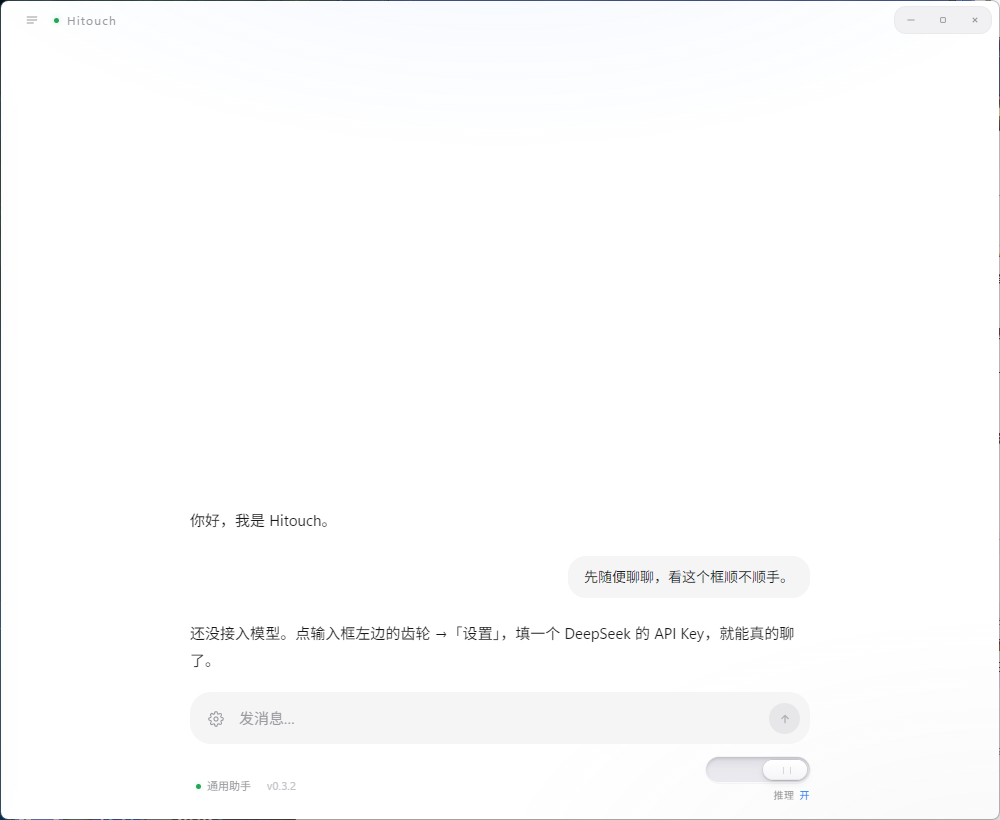
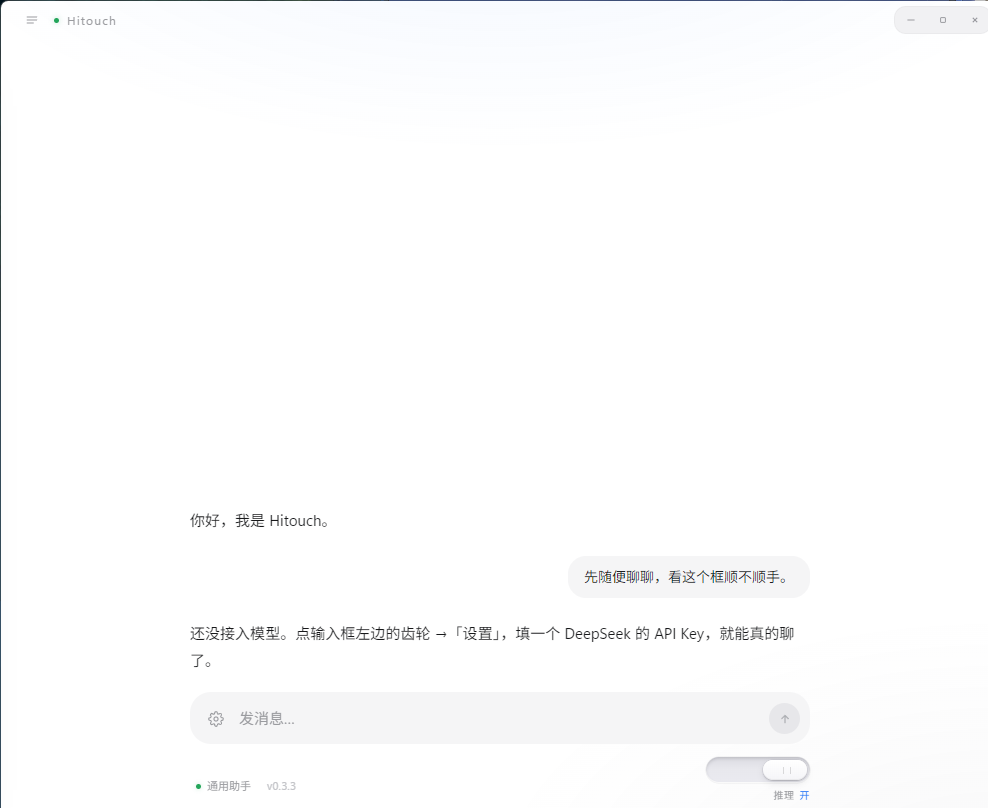
release: 0.3.3

diff --git a/index.html b/index.html
@@ -131,7 +131,7 @@
   <header class="bar">
     <span class="bar-mark" aria-hidden="true"></span>
     <span class="bar-name">Hitouch</span>
-    <span class="bar-r">v0.3.2 · Windows x64</span>
+    <span class="bar-r">v0.3.3 · Windows x64</span>
   </header>
 
   <section class="hero">
@@ -139,8 +139,8 @@
     <p class="lede">填自己的 API Key 就能对话。不注册、不登录，中间没有我的服务器——<b>聊天记录默认不保存</b>，关窗即清；想留再打开，用 Windows 自带的加密存在本机。</p>
 
     <div class="actions">
-      <a class="btn btn-solid" href="https://gitee.com/sunkuforgame/Hitouch/releases/download/v0.3.2/Hitouch-0.3.2-setup.exe">下载安装包<span class="mb">81.7 MB</span></a>
-      <a class="btn" href="https://gitee.com/sunkuforgame/Hitouch/releases/download/v0.3.2/Hitouch-0.3.2-portable.exe">免安装便携版<span class="mb">74.4 MB</span></a>
+      <a class="btn btn-solid" href="https://gitee.com/sunkuforgame/Hitouch/releases/download/v0.3.3/Hitouch-0.3.3-setup.exe">下载安装包<span class="mb">81.7 MB</span></a>
+      <a class="btn" href="https://gitee.com/sunkuforgame/Hitouch/releases/download/v0.3.3/Hitouch-0.3.3-portable.exe">免安装便携版<span class="mb">74.4 MB</span></a>
     </div>
     <p class="fineprint">Windows 10 / 11 · 64 位 · 两个版本功能完全一样，安装包会请求管理员权限</p>
     <p class="fineprint">你发出去的每句话都会交给 DeepSeek 处理；开联网搜索时，搜索词会交给搜索引擎。这两件我替代不了。</p>
@@ -165,7 +165,7 @@
   <section>
     <h2>能做什么</h2>
     <p class="prose">流式回答，随时停下、重新生成。内置通用助手、学习助教、编程搭子、翻译四套人设，也能自己写。可选联网搜索（默认关，回答里标来源）、可选本地记忆（默认关）。Markdown 表格和代码高亮，任意对话能一键导出成 Markdown 文件。</p>
-    <p class="prose">0.3.2 更新：右侧「深度思考」栏改成圆角浮动卡片，和界面里其他面板同一套圆角、边框与阴影；便携版现在也会请求管理员权限，和安装包一致。<br><br>0.3.1 更新：移除右上角的「关于」入口，技能与隐私声明移到 设置 → 通用设置；界面上只保留输入框左边的齿轮。<br><br>0.3.0 更新：设置面板改成四组折叠（一次只开一组）；新增「程序员」外观——全英文界面、蓝黑配色，右侧边栏实时记录模型的深度思考过程；上下文从固定 6 轮改成 6–200 轮滑轨（默认 40），长对话不再被截断。</p>
+    <p class="prose">0.3.3 更新：设置面板改成「左侧分类 + 右侧内容」，四个分类独立切换，弹窗加宽到 780px，选中项高亮，滚动条改成 10px 圆角细条；作者页补上「全部版本」入口和 MIT / Electron 33 / Windows x64 一行。<br><br>0.3.2 更新：右侧「深度思考」栏改成圆角浮动卡片，和界面里其他面板同一套圆角、边框与阴影；便携版也会请求管理员权限，和安装包一致。<br><br>0.3.1 更新：移除右上角的「关于」入口，技能与隐私声明移到 设置 → 通用设置；界面上只保留输入框左边的齿轮。<br><br>0.3.0 更新：设置面板改成四组折叠（一次只开一组）；新增「程序员」外观——全英文界面、蓝黑配色，右侧边栏实时记录模型的深度思考过程；上下文从固定 6 轮改成 6–200 轮滑轨（默认 40），长对话不再被截断。</p>
     <p class="prose">没有的：账号、云同步、插件市场、会员、每日额度。</p>
   </section>
 
@@ -182,10 +182,10 @@
     <details>
       <summary>两个文件的 SHA-256</summary>
       <div class="body">
-        <p class="hash" style="font-size:13px">Hitouch-0.3.2-setup.exe · 81,730,199 字节<br><code>2694d78f733415c540736ff39480ada603131d8551da477db4e32a54b49414bd</code></p>
-        <p class="hash" style="font-size:13px;margin-top:10px">Hitouch-0.3.2-portable.exe · 74,351,116 字节<br><code>6cae9c0eeb77924c1056fef58ba434d59869ad57ac3e84a15fb0a7a26748914c</code></p>
+        <p class="hash" style="font-size:13px">Hitouch-0.3.3-setup.exe · 81,731,515 字节<br><code>188d8a110ef3f5401c0e637790df56a9beb4ba13e9a6a025820273ac30e895ca</code></p>
+        <p class="hash" style="font-size:13px;margin-top:10px">Hitouch-0.3.3-portable.exe · 74,352,294 字节<br><code>22b38949285c5d8c08dfe3222cfae407e27b72213441e1024e4a1d1134d67070</code></p>
         <p style="margin-top:12px;font-size:13px;color:var(--ink-3)">自己算一遍：</p>
-        <pre>certutil -hashfile Hitouch-0.3.2-setup.exe SHA256</pre>
+        <pre>certutil -hashfile Hitouch-0.3.3-setup.exe SHA256</pre>
       </div>
     </details>
     <details>
@@ -209,7 +209,7 @@ npm run dist</pre>
   <footer>
     <a href="https://gitee.com/sunkuforgame/Hitouch">Gitee 仓库</a>
     <a href="https://gitee.com/sunkuforgame/Hitouch/releases">全部版本</a>
-    <a href="https://gitee.com/sunkuforgame/Hitouch/releases/download/v0.3.2/SHA256SUMS.txt">校验文件</a>
+    <a href="https://gitee.com/sunkuforgame/Hitouch/releases/download/v0.3.3/SHA256SUMS.txt">校验文件</a>
     <span>2026-11-08 更新</span>
     <span>MIT · Sun2530</span>
   </footer>
